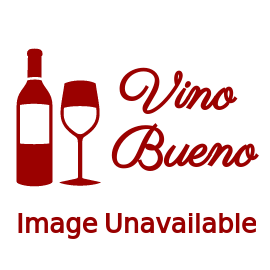
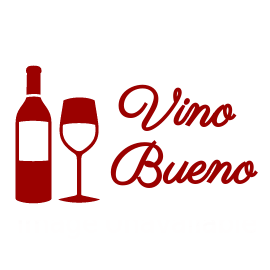
Add styling to wines index page. Update readme and placeholder for no images.

Changed region(s): [[0.0296, 0.1778, 0.9481, 0.8889], [0.3852, 0.237, 0.9778, 0.7111]]

diff --git a/app/assets/stylesheets/application.scss b/app/assets/stylesheets/application.scss
@@ -35,6 +35,16 @@
   color: white;
 }
 
+.navbar-default .navbar-nav > li > a:focus {
+  color: white;
+}
+
+.navbar-default .navbar-nav > .open > a,
+.navbar-default .navbar-nav > .open > a:focus {
+  color: white;
+  background-color: #C10100;
+}
+
 // all buttons
 button {
     background-color: #9B0100;
@@ -181,36 +191,47 @@ button.close:hover {
 }
 
 button.navbar-toggle.collapsed:hover {
-    background-color: #C10100;
+  background-color: #C10100;
 }
 
 // wines index pages styling
 .wines-index {
-    width: 80%;
-    margin: auto;
+  width: 80%;
+  margin: auto;
 }
 
 .wine-mini {
-    margin: 10px;
+  margin: 10px;
 }
 
 .wine-mini-deets {
   height: 150px;
 }
 
+.wine-mini.row {
+  border-top: 1px solid #9B0100;
+  padding: 10px;
+}
+
 a.clickable {
-    display: inline-block;
-    width: 100%;
-    height: 100%;
+  display: inline-block;
+  width: 100%;
+  height: 100%;
+  color: #0A4368;
+}
+
+button.btn-new-wine {
+  display: inline-block;
+  float: right;
+  width: auto;
 }
 
 // star styling
-
 span.star-off {
-    color: #555;
+  color: #555;
 }
 span.star-on {
-    color: #C10100;
+  color: #C10100;
 }
 
 .rating {

diff --git a/README.md b/README.md
@@ -2,7 +2,7 @@
 
 [Heroku link][heroku]
 
-[heroku]: (https://vinobueno.herokuapp.com/){:target="_blank"}
+[heroku]: https://vinobueno.herokuapp.com/
 
 ## Minimum Viable Product
 Vino Bueno is a clone of Goodreads for wine reviews, built on Rails and Backbone. Users can:
